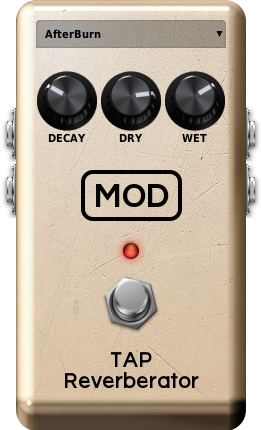
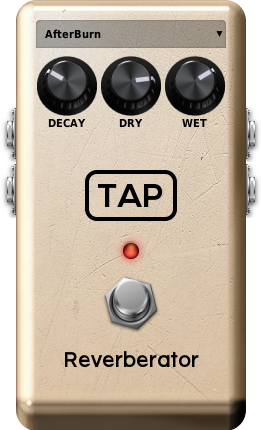
changed tap gui

Changed region(s): [[0.1226, 0.1209, 0.8889, 0.3326], [0.2452, 0.8163, 0.7663, 0.907], [0.3065, 0.393, 0.705, 0.514]]

diff --git a/ttlfiles-fixed/tap-reverb.lv2/modgui/stylesheet-tap-reverberator.css b/ttlfiles-fixed/tap-reverb.lv2/modgui/stylesheet-tap-reverberator.css
@@ -159,10 +159,13 @@
 /* = KNOBS
 ================================================ */
 .mod-pedal-boxy{{{cns}}} .mod-control-group {
-    margin:20px;
+    margin:20px !important;
     position:relative;
     text-align:center;
     z-index:30;
+}
+.mod-pedal-boxy{{{cns}}} .top {
+    margin-top:0px !important;
 }
 
 .mod-pedal-boxy{{{cns}}} .mod-control-group .mod-knob {
@@ -190,16 +193,17 @@
 .mod-pedal-boxy{{{cns}}}.mod-one-knob .mod-control-group .mod-knob .mod-knob-image {
     background-image:url(/resources/knobs/boxy/boxy.png{{{ns}}});
     background-repeat:no-repeat;
-    background-size:auto 110px;
-    height:110px;
-    width:110px;
+    background-size:auto 98px;
+    height:98px;
+    width:98px;
     margin:0 auto;
 }
 .mod-pedal-boxy{{{cns}}}.mod-one-knob .mod-control-group .mod-knob > span.mod-knob-title {
     font-size:15px;
+    height:15px;
 }
 .mod-pedal-boxy{{{cns}}}.mod-one-knob .mod-control-group .mod-knob {
-    height:125px;
+    height:115px;
 }
 
 /* TWO KNOBS */
@@ -261,8 +265,13 @@
     z-index:35;
 }
 
-.mod-pedal-boxy{{{cns}}}.mod-three-knobs .mod-enumerated-group {
+.mod-pedal-boxy{{{cns}}}.mod-three-knobs .mod-enumerated-group,
+.mod-pedal-boxy{{{cns}}}.mod-four-knobs .mod-enumerated-group {
     margin-bottom:5px !important;
+}
+
+.mod-pedal-boxy{{{cns}}}.mod-four-knobs .mod-enumerated-group {
+    width:250px;
 }
 
 .mod-pedal-boxy{{{cns}}} .mod-enumerated {
@@ -1054,7 +1063,6 @@
 {
     border-color:black;
 }
-
 /* STYLES FOR THE BOXY KNOB */
 
 
